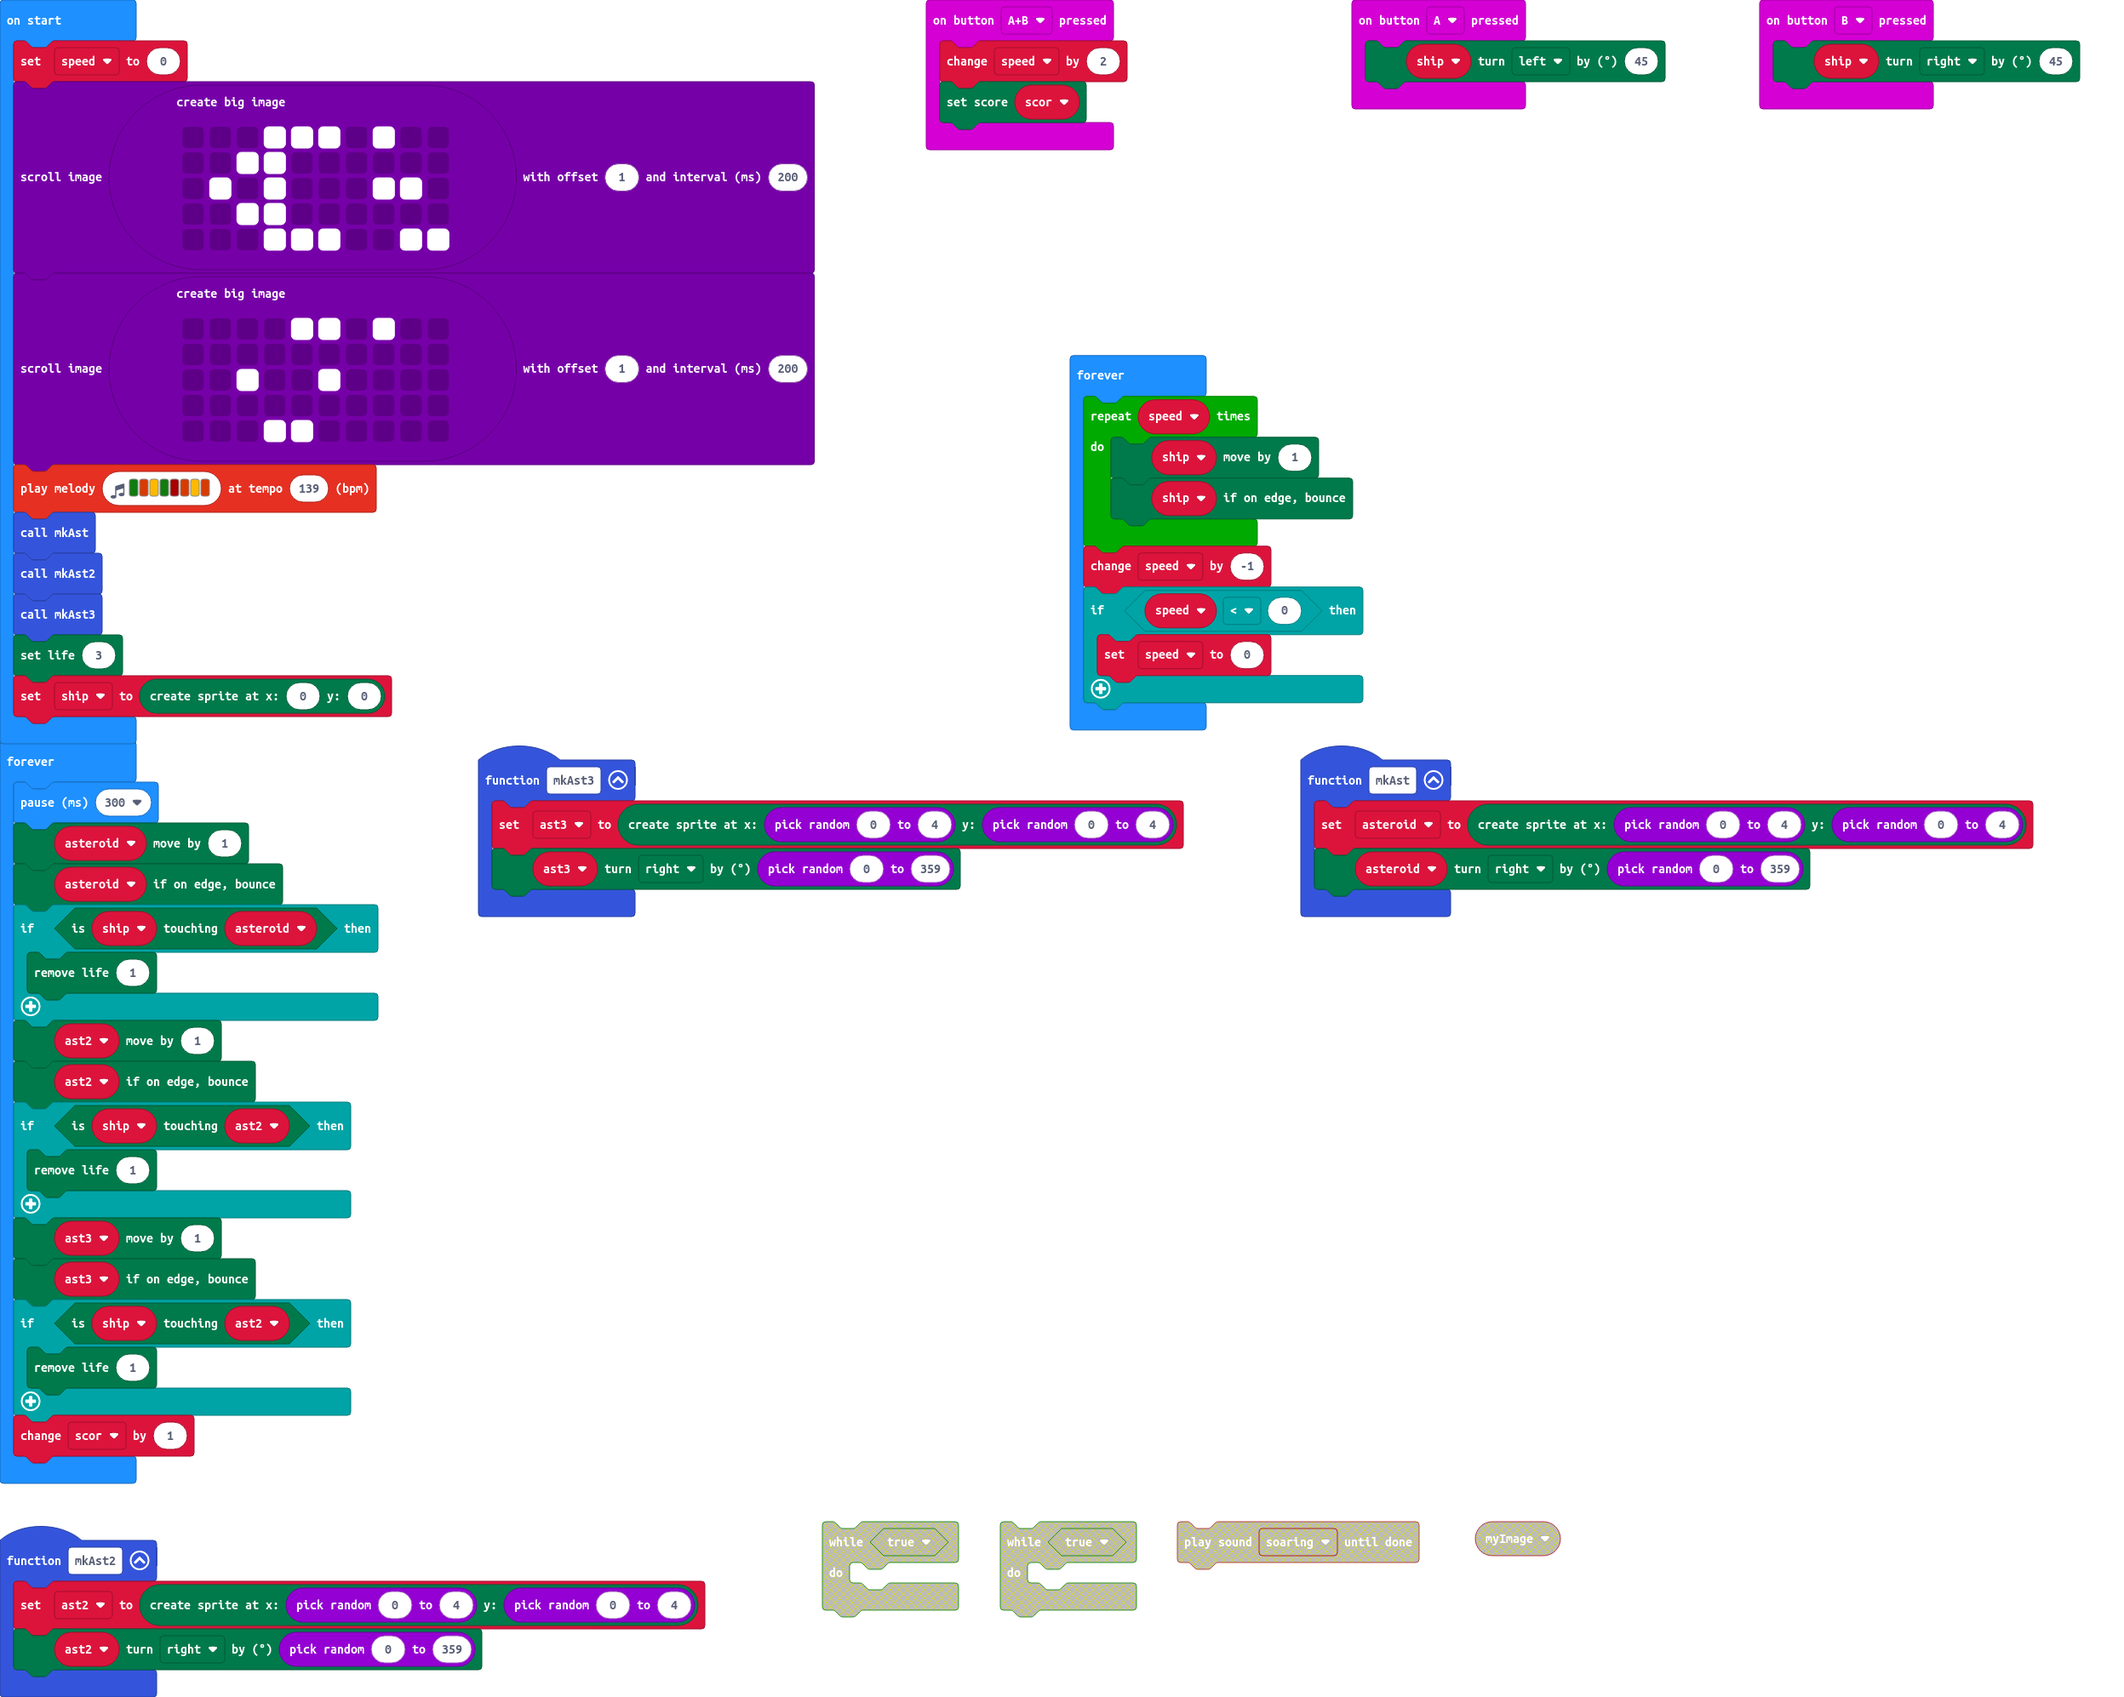
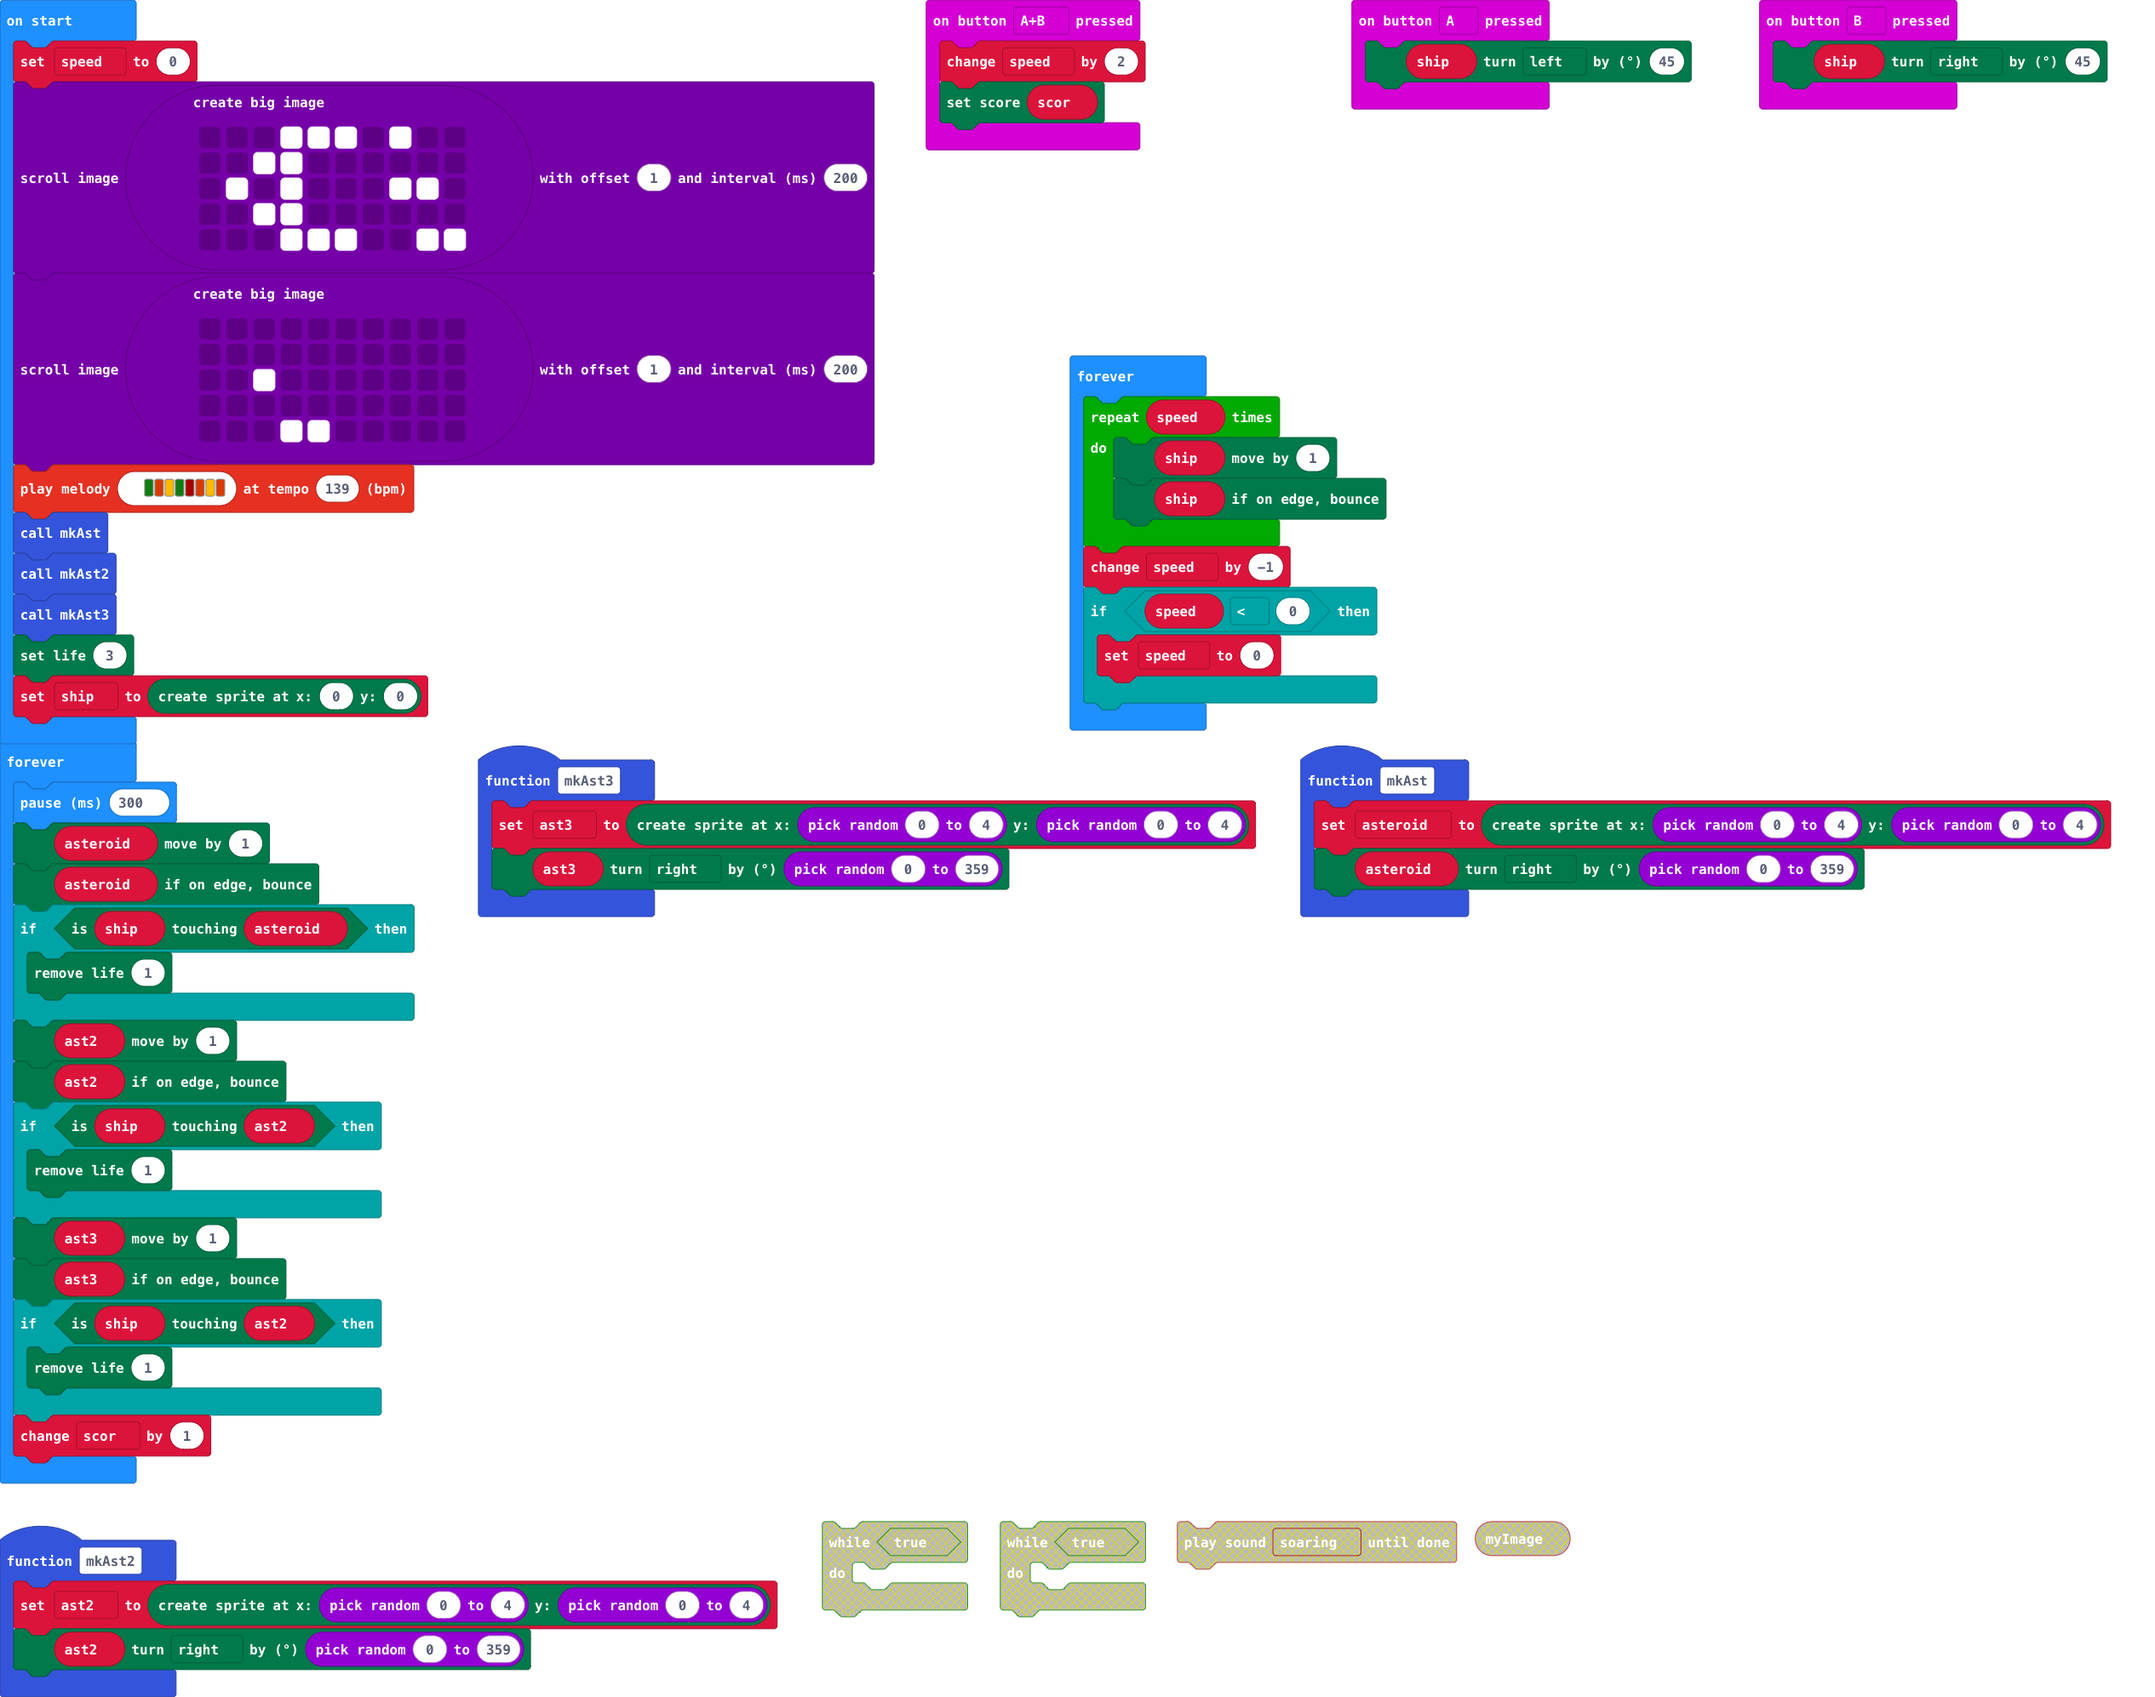
Update main.blocks, main.ts

diff --git a/main.ts b/main.ts
@@ -34,9 +34,9 @@ images.createBigImage(`
     . . . # # # . . # #
     `).scrollImage(1, 200)
 images.createBigImage(`
-    . . . . # # . # . .
     . . . . . . . . . .
-    . . # . . # . . . .
+    . . . . . . . . . .
+    . . # . . . . . . .
     . . . . . . . . . .
     . . . # # . . . . .
     `).scrollImage(1, 200)
